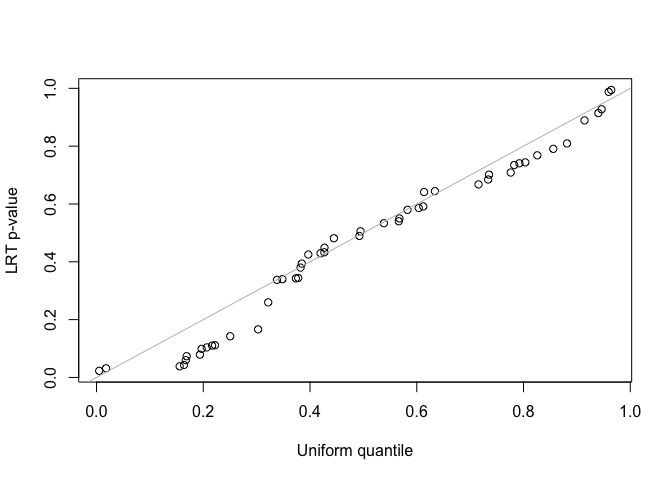
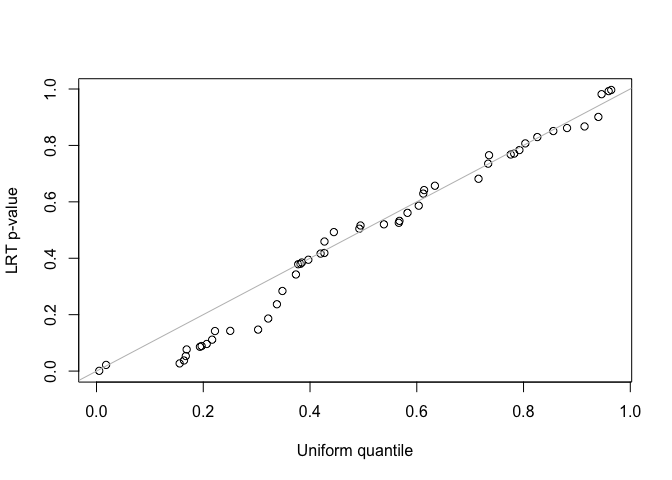
Initial commit

diff --git a/README.md b/README.md
@@ -201,7 +201,7 @@ with two-component random effects.
 
 set.seed(2508)
 n <- nrow(metadata)
-metadata$time <- rnorm(n, 6) * sample(1:2, n, replace = TRUE)
+metadata$time <- rnorm(n, 5) * sample(1:2, n, replace = TRUE)
 Z <- model.matrix(~0 + sam + sam:time, data = metadata)
 d <- c(ncol(Z)/2, ncol(Z)/2)  #dimension
 
